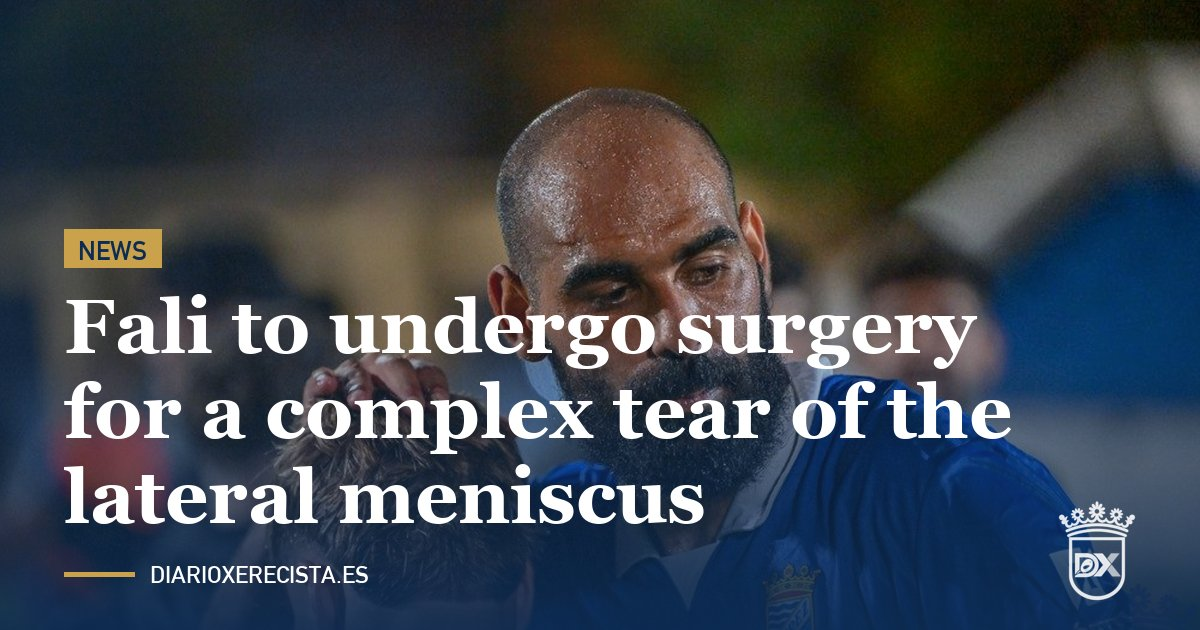
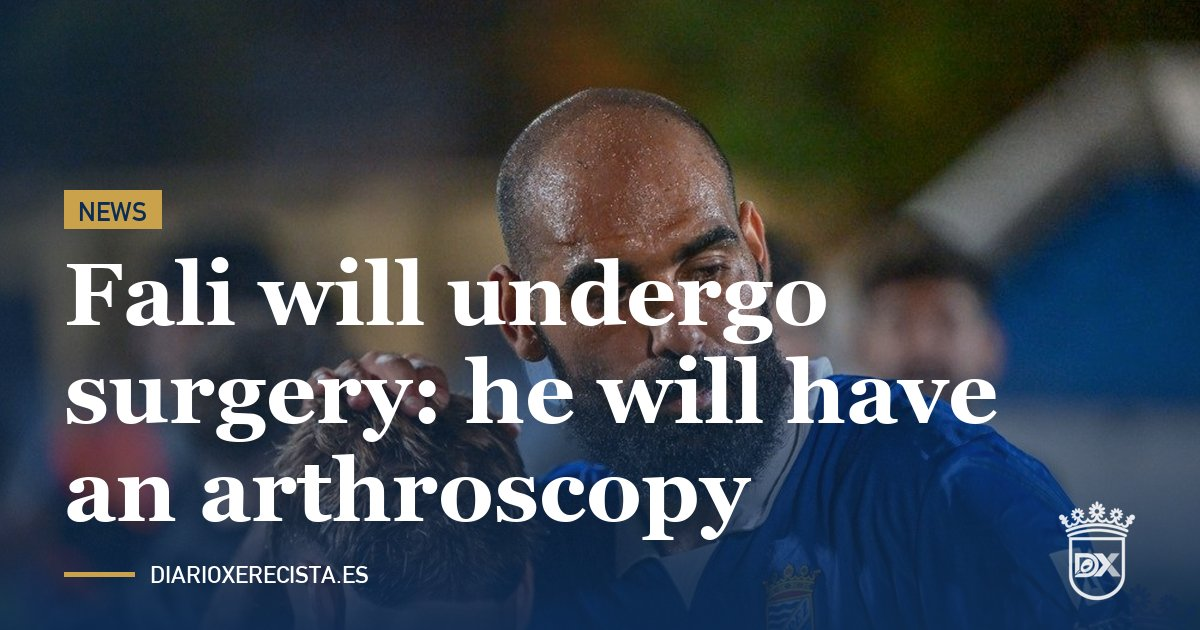
art152: nuevo titular, Fali pasará por el quirófano: se le realizará una artroscopia (ES+EN) e imagen de redes

Changed region(s): [[0.0308, 0.3016, 0.8633, 0.8746]]

diff --git a/noticias/articulos/2026-11/fali-sera-operado-de-una-rotura-compleja-del-menisco-externo/index.html b/noticias/articulos/2026-11/fali-sera-operado-de-una-rotura-compleja-del-menisco-externo/index.html
@@ -3,7 +3,7 @@
 <head>
 <meta charset="UTF-8">
 <meta name="viewport" content="width=device-width, initial-scale=1.0">
-<title>Fali será operado de una rotura compleja del menisco externo | Diario Xerecista</title>
+<title>Fali pasará por el quirófano: se le realizará una artroscopia | Diario Xerecista</title>
 <meta name="description" content="El parte médico del Xerez CD confirma que el central sufre una rotura compleja del cuerno posterior del menisco externo, que afecta a las dos superficies del menisco. El jugador, de 33 años, pasará por el quirófano y estará de baja entre ocho y doce semanas.">
 <meta name="robots" content="index, follow, max-snippet:-1, max-image-preview:large">
 <link rel="canonical" href="https://www.diarioxerecista.es/noticias/articulos/2026-11/fali-sera-operado-de-una-rotura-compleja-del-menisco-externo/">
@@ -13,7 +13,7 @@
 
 <meta property="og:type" content="article">
 <meta property="og:site_name" content="Diario Xerecista">
-<meta property="og:title" content="Fali será operado de una rotura compleja del menisco externo">
+<meta property="og:title" content="Fali pasará por el quirófano: se le realizará una artroscopia">
 <meta property="og:description" content="El parte médico del Xerez CD confirma que el central sufre una rotura compleja del cuerno posterior del menisco externo, que afecta a las dos superficies del menisco. El jugador, de 33 años, pasará por el quirófano y estará de baja entre ocho y doce semanas.">
 <meta property="og:url" content="https://www.diarioxerecista.es/noticias/articulos/2026-11/fali-sera-operado-de-una-rotura-compleja-del-menisco-externo/">
 <meta property="og:image" content="https://www.diarioxerecista.es/fotos/redes/art152-es.jpg">
@@ -22,7 +22,7 @@
 <meta property="og:locale" content="es_ES">
 
 <meta name="twitter:card" content="summary_large_image">
-<meta name="twitter:title" content="Fali será operado de una rotura compleja del menisco externo">
+<meta name="twitter:title" content="Fali pasará por el quirófano: se le realizará una artroscopia">
 <meta name="twitter:description" content="El parte médico del Xerez CD confirma que el central sufre una rotura compleja del cuerno posterior del menisco externo, que afecta a las dos superficies del menisco. El jugador, de 33 años, pasará por el quirófano y estará de baja entre ocho y doce semanas.">
 <meta name="twitter:image" content="https://www.diarioxerecista.es/fotos/redes/art152-es.jpg">
 
@@ -35,7 +35,7 @@
 {
   "@context": "https://schema.org",
   "@type": "NewsArticle",
-  "headline": "Fali será operado de una rotura compleja del menisco externo",
+  "headline": "Fali pasará por el quirófano: se le realizará una artroscopia",
   "description": "El parte médico del Xerez CD confirma que el central sufre una rotura compleja del cuerno posterior del menisco externo, que afecta a las dos superficies del menisco. El jugador, de 33 años, pasará por el quirófano y estará de baja entre ocho y doce semanas.",
   "image": [
     "https://www.diarioxerecista.es/fotos/publicadas/fali-abrazo-companero-archivo.jpg"
@@ -78,7 +78,7 @@
 
   <main class="n-article">
     <span class="eyebrow">Xerez CD · Enfermería</span>
-    <h1>Fali será operado de una rotura compleja del menisco externo</h1>
+    <h1>Fali pasará por el quirófano: se le realizará una artroscopia</h1>
 
     <div class="n-photo">
       <img src="../../../../fotos/publicadas/fali-abrazo-companero-archivo.jpg" alt="Fali, central del Xerez CD, abraza a un compañero al final de un partido" loading="lazy">
@@ -101,7 +101,7 @@
 
     <div class="n-meta-row">
       <span class="byline">Redacción — 25 de noviembre de 2026</span>
-      <a href="https://x.com/intent/tweet?text=Fali%20ser%C3%A1%20operado%20de%20una%20rotura%20compleja%20del%20menisco%20externo%0A%0Ahttps%3A%2F%2Fwww.diarioxerecista.es%2Fnoticias%2Farticulos%2F2026-11%2Ffali-sera-operado-de-una-rotura-compleja-del-menisco-externo%2F%0A%0A%23XerezCD" target="_blank" rel="noopener" class="share-x-btn">Compartir en 𝕏</a>
+      <a href="https://x.com/intent/tweet?text=Fali%20pasar%C3%A1%20por%20el%20quir%C3%B3fano%3A%20se%20le%20realizar%C3%A1%20una%20artroscopia%0A%0Ahttps%3A%2F%2Fwww.diarioxerecista.es%2Fnoticias%2Farticulos%2F2026-11%2Ffali-sera-operado-de-una-rotura-compleja-del-menisco-externo%2F%0A%0A%23XerezCD" target="_blank" rel="noopener" class="share-x-btn">Compartir en 𝕏</a>
     </div>
 
     <a class="back-link" href="../../../../en/noticias/articulos/2026-11/fali-to-undergo-surgery-for-a-complex-tear-of-the-lateral-meniscus/" style="display:block;margin-bottom:10px;">🇬🇧 Read in English</a>

diff --git a/en/noticias/articulos/2026-11/fali-to-undergo-surgery-for-a-complex-tear-of-the-lateral-meniscus/index.html b/en/noticias/articulos/2026-11/fali-to-undergo-surgery-for-a-complex-tear-of-the-lateral-meniscus/index.html
@@ -3,7 +3,7 @@
 <head>
 <meta charset="UTF-8">
 <meta name="viewport" content="width=device-width, initial-scale=1.0">
-<title>Fali to undergo surgery for a complex tear of the lateral meniscus | Diario Xerecista</title>
+<title>Fali will undergo surgery: he will have an arthroscopy | Diario Xerecista</title>
 <meta name="description" content="Xerez CD's medical report confirms that the centre-back has suffered a complex tear of the posterior horn of the lateral meniscus, affecting both surfaces of the meniscus. The 33-year-old will undergo surgery and will be out for between eight and twelve weeks.">
 <meta name="robots" content="index, follow, max-snippet:-1, max-image-preview:large">
 <link rel="canonical" href="https://www.diarioxerecista.es/en/noticias/articulos/2026-11/fali-to-undergo-surgery-for-a-complex-tear-of-the-lateral-meniscus/">
@@ -13,7 +13,7 @@
 
 <meta property="og:type" content="article">
 <meta property="og:site_name" content="Diario Xerecista">
-<meta property="og:title" content="Fali to undergo surgery for a complex tear of the lateral meniscus">
+<meta property="og:title" content="Fali will undergo surgery: he will have an arthroscopy">
 <meta property="og:description" content="Xerez CD's medical report confirms that the centre-back has suffered a complex tear of the posterior horn of the lateral meniscus, affecting both surfaces of the meniscus. The 33-year-old will undergo surgery and will be out for between eight and twelve weeks.">
 <meta property="og:url" content="https://www.diarioxerecista.es/en/noticias/articulos/2026-11/fali-to-undergo-surgery-for-a-complex-tear-of-the-lateral-meniscus/">
 <meta property="og:image" content="https://www.diarioxerecista.es/fotos/redes/art152-en.jpg">
@@ -22,7 +22,7 @@
 <meta property="og:locale" content="en_GB">
 
 <meta name="twitter:card" content="summary_large_image">
-<meta name="twitter:title" content="Fali to undergo surgery for a complex tear of the lateral meniscus">
+<meta name="twitter:title" content="Fali will undergo surgery: he will have an arthroscopy">
 <meta name="twitter:description" content="Xerez CD's medical report confirms that the centre-back has suffered a complex tear of the posterior horn of the lateral meniscus, affecting both surfaces of the meniscus. The 33-year-old will undergo surgery and will be out for between eight and twelve weeks.">
 <meta name="twitter:image" content="https://www.diarioxerecista.es/fotos/redes/art152-en.jpg">
 
@@ -35,7 +35,7 @@
 {
   "@context": "https://schema.org",
   "@type": "NewsArticle",
-  "headline": "Fali to undergo surgery for a complex tear of the lateral meniscus",
+  "headline": "Fali will undergo surgery: he will have an arthroscopy",
   "description": "Xerez CD's medical report confirms that the centre-back has suffered a complex tear of the posterior horn of the lateral meniscus, affecting both surfaces of the meniscus. The 33-year-old will undergo surgery and will be out for between eight and twelve weeks.",
   "image": [
     "https://www.diarioxerecista.es/fotos/publicadas/fali-abrazo-companero-archivo.jpg"
@@ -78,7 +78,7 @@
 
   <main class="n-article">
     <span class="eyebrow">Xerez CD · Injuries</span>
-    <h1>Fali to undergo surgery for a complex tear of the lateral meniscus</h1>
+    <h1>Fali will undergo surgery: he will have an arthroscopy</h1>
 
     <div class="n-photo">
       <img src="../../../../../fotos/publicadas/fali-abrazo-companero-archivo.jpg" alt="Fali, Xerez CD centre-back, embraces a team-mate at the end of a match" loading="lazy">
@@ -101,7 +101,7 @@
 
     <div class="n-meta-row">
       <span class="byline">Newsroom — 25 November 2026</span>
-      <a href="https://x.com/intent/tweet?text=Fali%20to%20undergo%20surgery%20for%20a%20complex%20tear%20of%20the%20lateral%20meniscus%0A%0Ahttps%3A%2F%2Fwww.diarioxerecista.es%2Fen%2Fnoticias%2Farticulos%2F2026-11%2Ffali-to-undergo-surgery-for-a-complex-tear-of-the-lateral-meniscus%2F%0A%0A%23XerezCD" target="_blank" rel="noopener" class="share-x-btn">Share on 𝕏</a>
+      <a href="https://x.com/intent/tweet?text=Fali%20will%20undergo%20surgery%3A%20he%20will%20have%20an%20arthroscopy%0A%0Ahttps%3A%2F%2Fwww.diarioxerecista.es%2Fen%2Fnoticias%2Farticulos%2F2026-11%2Ffali-to-undergo-surgery-for-a-complex-tear-of-the-lateral-meniscus%2F%0A%0A%23XerezCD" target="_blank" rel="noopener" class="share-x-btn">Share on 𝕏</a>
     </div>
 
     <a class="back-link" href="../../../../../noticias/articulos/2026-11/fali-sera-operado-de-una-rotura-compleja-del-menisco-externo/" style="display:block;margin-bottom:10px;">🇪🇸 Leer en español</a>

diff --git a/index.html b/index.html
@@ -1682,7 +1682,7 @@
     <div class="news-grid" id="loUltimoGrid">
       <!-- generado dinámicamente por renderPortada(); hasta que carga se ven estos titulares, que también lee Google -->
       <!-- TITULARES-INICIO (no editar a mano: python3 -I scripts/titulares_portada.py) -->
-      <article class="card"><span class="eyebrow">Xerez CD · Enfermería</span><h4><a class="tit-link" href="/noticias/articulos/2026-11/fali-sera-operado-de-una-rotura-compleja-del-menisco-externo/">Fali será operado de una rotura compleja del menisco externo</a></h4><p>El parte médico del Xerez CD confirma que el central sufre una rotura compleja del cuerno posterior del menisco externo, que afecta a las dos superficies del menisco. El jugador, de 33 años, pasará por el quirófano y estará de baja entre ocho y doce semanas.</p></article>
+      <article class="card"><span class="eyebrow">Xerez CD · Enfermería</span><h4><a class="tit-link" href="/noticias/articulos/2026-11/fali-sera-operado-de-una-rotura-compleja-del-menisco-externo/">Fali pasará por el quirófano: se le realizará una artroscopia</a></h4><p>El parte médico del Xerez CD confirma que el central sufre una rotura compleja del cuerno posterior del menisco externo, que afecta a las dos superficies del menisco. El jugador, de 33 años, pasará por el quirófano y estará de baja entre ocho y doce semanas.</p></article>
       <article class="card"><span class="eyebrow">Segunda RFEF · Jornada 15</span><h4><a class="tit-link" href="/noticias/articulos/2026-11/el-sevilla-atletico-xerez-cd-se-jugara-el-domingo-13-de-diciembre-a-las-1130/">El Sevilla Atlético – Xerez CD se jugará el domingo 13 de diciembre a las 11:30</a></h4><p>Ya hay horario para la visita del Xerez CD al filial sevillista, correspondiente a la decimoquinta jornada de liga en el Grupo IV de Segunda RFEF. El partido se disputará en horario matinal, el domingo 13 de diciembre a las 11:30, en el estadio Jesús Navas.</p></article>
       <article class="card"><span class="eyebrow">Xerez CD · Enfermería</span><h4><a class="tit-link" href="/noticias/articulos/2026-11/fali-se-rompe-el-cuerno-del-menisco-de-la-rodilla-derecha-y-estara-de-baja-entre-ocho-y-doce-semanas/">Fali se rompe el cuerno del menisco de la rodilla derecha y estará de baja entre ocho y doce semanas</a></h4><p>El central del Xerez CD será operado en los próximos días y podría perderse entre seis y diez partidos de liga, en plena racha de cinco victorias consecutivas del equipo.</p></article>
       <article class="card"><span class="eyebrow">Segunda RFEF · Jornada 13</span><h4><a class="tit-link" href="/noticias/articulos/2026-11/el-linares-llega-a-chapin-tras-ocho-jornadas-sin-perder/">El Linares llega a Chapín tras ocho jornadas sin perder</a></h4><p>El Xerez CD, segundo con cinco victorias seguidas, recibe el domingo 29 de noviembre a las 18:00 al Linares Deportivo, sexto a un punto y uno de los equipos más en forma del grupo.</p></article>
